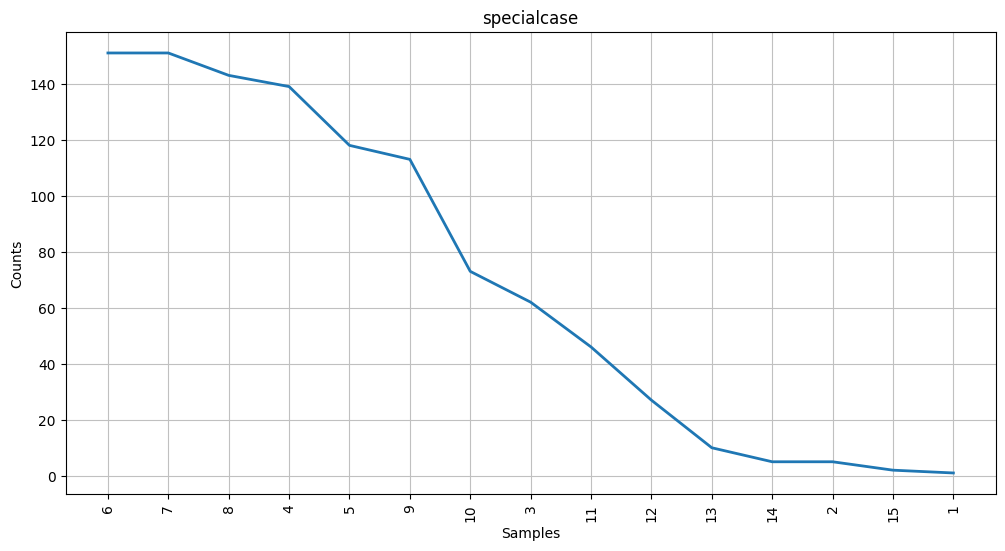
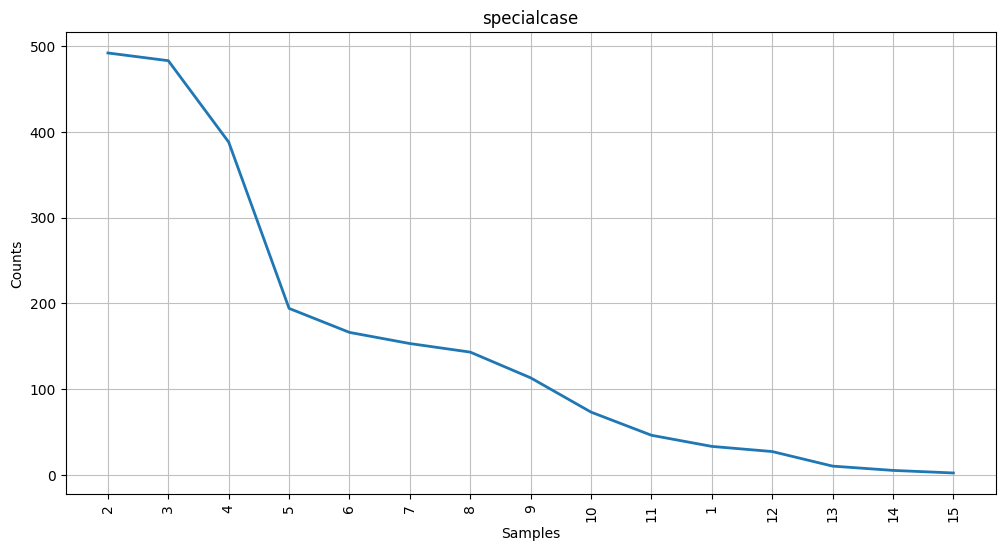
Finish Delta Method implementation

diff --git a/delta_method.py b/delta_method.py
@@ -1,17 +1,19 @@
 #!/usr/bin/env python3
-# John Burrows' Delta Method
+# John Burrows' Delta Method in order to compare Federalist 64, the special case,
+# to other categories
 
 __all__ = ["get_feature_freqs", "get_feature_stats", "get_feature_zscores", "apply_delta_method"]
 
 ### IMPORT
 
 # Python librairies import
-import math
+from math import fabs
 from statistics import mean
 from statistics import stdev
 from statistics import NormalDist
 
 # Utils import
+from operator import itemgetter
 from utils import get_n_most_frequent_words_occs
 
 
@@ -81,10 +83,29 @@ def get_feature_zscores(features, categories, stats, freqs):
     return feature_zscores
 
 
-def apply_delta_method(n, corpus, categories, specialcase):
-    combined_corpus = list()
+def calculate_delta_scores(features, categories, zscores, specialcase):
+    """Calculate Delta scores for each category
 
-    categories = [category for category in categories if category not in specialcase]
+    Args:
+        features: The selected features
+        categories: The categories of the features
+        zscores: z-scores of all categories except the special case
+        specialcase: z-scores of the special case
+    """
+    delta = dict()
+    feature_count = len(features)
+
+    for category in categories:
+        score = [fabs(specialcase[feature] - zscores[category][feature]) for feature in features]
+        delta[category] = sum(score) / feature_count
+    return dict(sorted(delta.items(), key=itemgetter(1)))
+
+
+def apply_delta_method(n, corpus, categories, specialcategory):
+    combined_corpus = list()
+    specialcase = specialcategory[0]
+
+    categories.remove(specialcase)
 
     # Select the most frequent tokens to be used as features
     for category in categories:
@@ -92,12 +113,15 @@ def apply_delta_method(n, corpus, categories, specialcase):
     words_occs = get_n_most_frequent_words_occs(n, combined_corpus)
     features = [word for word,count in words_occs]
 
-    # Get the proportion of each feature per category
     feature_freqs = get_feature_freqs(corpus, features, categories)
-    # Calculate the mean and standard deviation for each feature
     corpus_stats = get_feature_stats(features, categories, feature_freqs)
-    # Calculate z-score for each feature per category
     feature_zscores = get_feature_zscores(features, categories, corpus_stats, feature_freqs)
-    # Same for special case
-    specialcase_freqs = get_feature_freqs(corpus, features, specialcase)
-    specialcase_zscores = get_feature_zscores(features, specialcase, corpus_stats, specialcase_freqs)
+
+    special_freqs = get_feature_freqs(corpus, features, specialcategory)
+    special_zscores = get_feature_zscores(features, specialcategory, corpus_stats, special_freqs)
+
+    # The first entry will be the lowest score and thus, the most likely author of Federalist 64
+    delta_scores = calculate_delta_scores(features, categories, feature_zscores, special_zscores[specialcase])
+
+    for k,v in delta_scores.items():
+        print(f"The Delta score for {k} papers is: {v}")

diff --git a/chisquared.py b/chisquared.py
@@ -1,11 +1,12 @@
 #!/usr/bin/env python3
-# Kilgariff’s Chi-Squared Method
+# Kilgariff's Chi-Squared Method
 
-__all__ = ["chi_square_test"]
+__all__ = ["calculate_chisquared", "chi_square_test"]
 
 ### IMPORT
 
 # Utils import
+from operator import itemgetter
 from utils import get_n_most_frequent_words_occs
 
 
@@ -43,13 +44,16 @@ def calculate_chisquared(n, text_author, text_unknown):
     return chisquared
 
 
-def chi_square_test(n, hamilton_papers, madison_papers, disputed):
+def chi_square_test(n, tokens, author1, author2, unknown):
     """Calculate Chi-Squared to determine the author of the disputed papers.
        The smallest distance between the disputed papers and one of the authors
        means the latest is probably the author of the disputed papers.
     """
-    hamilton_chisquared = calculate_chisquared(n, hamilton_papers, disputed)
-    madison_chisquared = calculate_chisquared(n, madison_papers, disputed)
+    chisquared = dict()
+    chisquared[author1] = calculate_chisquared(n, tokens[author1], tokens[unknown])
+    chisquared[author2] = calculate_chisquared(n, tokens[author2], tokens[unknown])
 
-    print(f"The Chi-squared statistic for Hamilton is {hamilton_chisquared}")
-    print(f"The Chi-squared statistic for Madison is {madison_chisquared}")
+    chisquared = dict(sorted(chisquared.items(), key=itemgetter(1)))
+
+    for k,v in chisquared.items():
+        print(f"The Chi-squared statistic for {k} papers is: {v}")

diff --git a/main.py b/main.py
@@ -35,17 +35,17 @@ def main(argv):
 
         # First approach: Mendenhall's Characteristic Curves of Composition
         if argv[1] == "1":
-            print("Mendenhall's Characteristic Curves of Composition")
+            print("Mendenhall's Characteristic Curves of Composition\n--------------------------")
             compute_word_spectrum(tokens)
 
         # Second approach: Kilgariff's Chi-Squared Method
         elif argv[1] == "2":
-            print("Kilgariff's Chi-Squared Method")
-            chi_square_test(500, tokens["hamilton"], tokens["madison"], tokens["disputed"])
+            print("Kilgariff's Chi-Squared Method\n--------------------------")
+            chi_square_test(500, tokens, "hamilton", "madison", "disputed")
 
         # Third approach: John Burrows' Delta Method
         else:
-            print("John Burrows' Delta Method")
+            print("John Burrows' Delta Method\n--------------------------")
             apply_delta_method(30, tokens, CATEGORIES, CATEGORIES[-1:])
 
 

diff --git a/load_data.py b/load_data.py
@@ -70,7 +70,7 @@ def tokenize_corpus(corpus):
         )
         tokens = tokens[1:] # Remove the number at the beginning of the document
         tokens = [token.lower() for token in tokens]
-        #result[category] = remove_stopwords(CORPUS_LANGUAGE, tokens)
+        result[category] = remove_stopwords(CORPUS_LANGUAGE, tokens)
         result[category] = tokens
 
     return result

diff --git a/word_spectrum.py b/word_spectrum.py
@@ -1,5 +1,5 @@
 #!/usr/bin/env python3
-# Mendenhall’s Characteristic Curves of Composition
+# Mendenhall's Characteristic Curves of Composition
 
 __all__ = ["compute_word_spectrum"]
 
